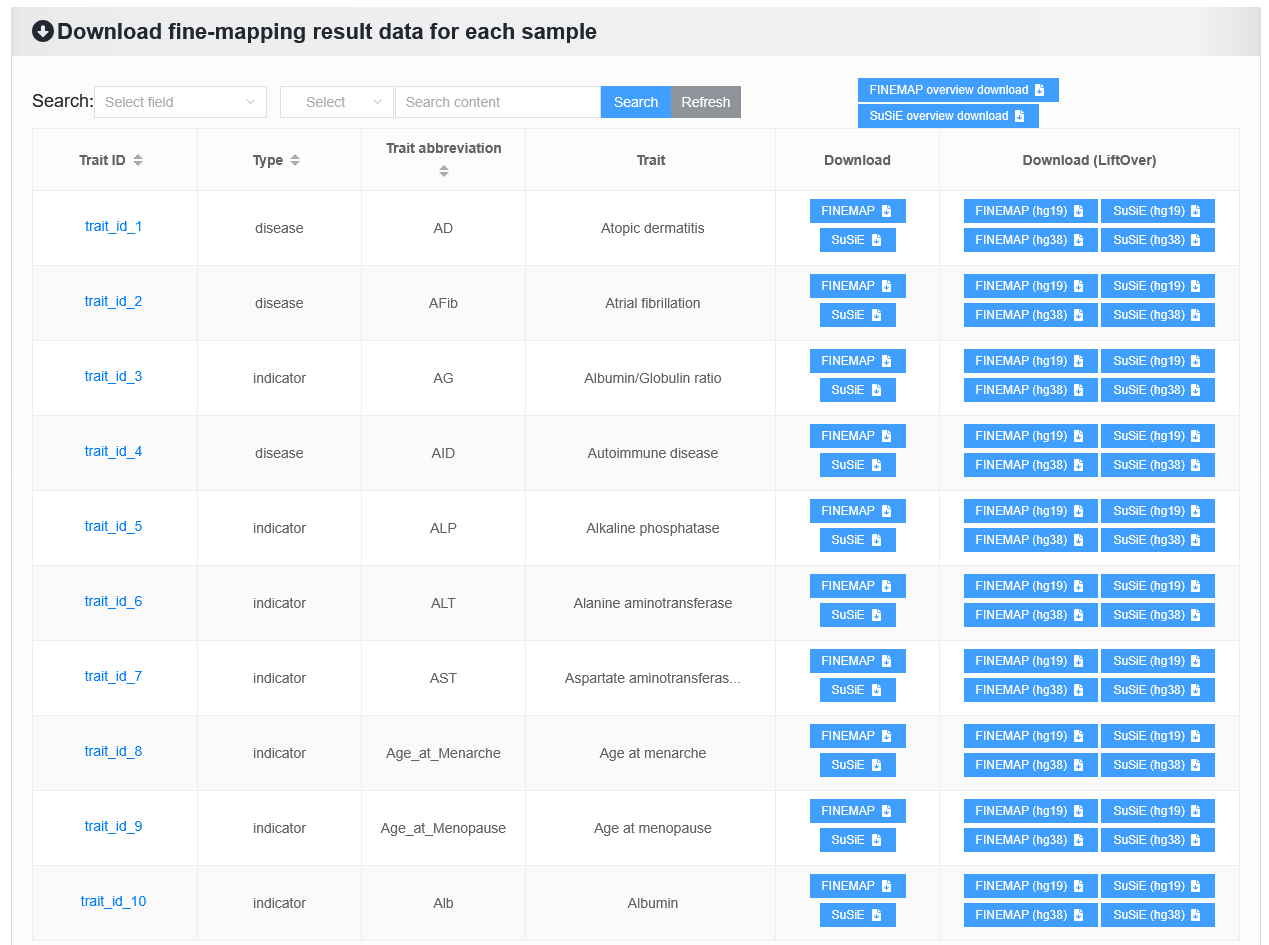
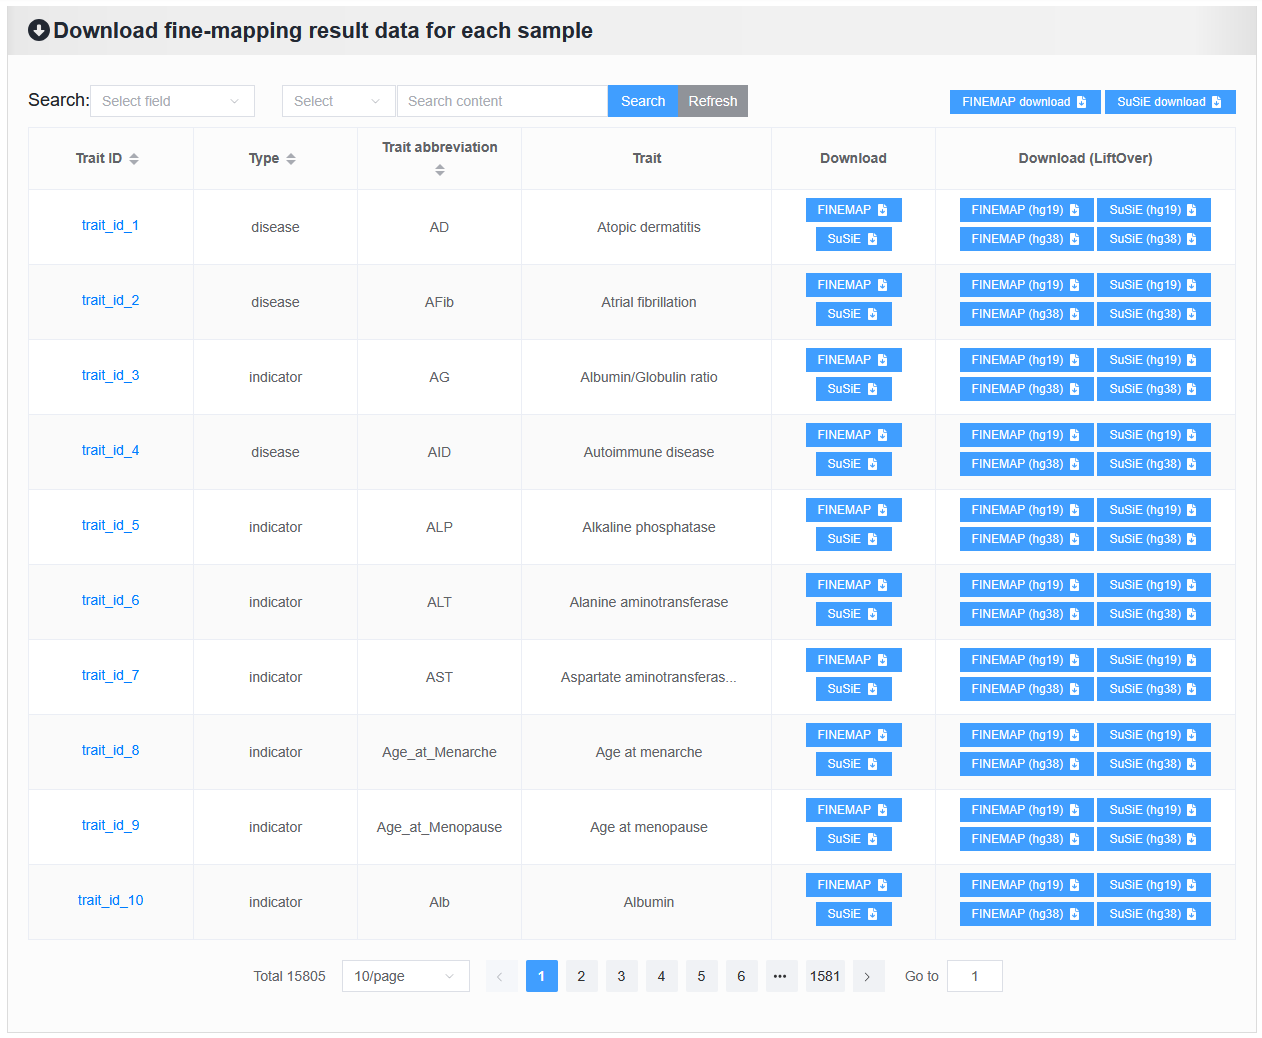
feat: Improve download information

diff --git a/docs/source/usage/download.rst b/docs/source/usage/download.rst
@@ -7,7 +7,7 @@ All downloadable data provides users with a centralized access portal aimed at f
 We have integrated the following comprehensive datasets:
 (i) scATAC-seq data;
 (ii) Fine-mapping results;
-(iii) The trait- or disease-relevant score (TRS) of each single-cell generated by g-chromVAR and SCAVENGE methods;
+(iii) The trait--relevant score (TRS) of each single-cell generated by g-chromVAR and SCAVENGE methods;
 (iv) Results of gene and TF related analysis;
 (v) Gene regulation annotation data.
 
@@ -16,12 +16,14 @@ We have integrated the following comprehensive datasets:
 
 .. image:: ../img/download/overview.png
 
+Below are the detailed download instructions.
+
 2.7.1.1 Overview of scATAC-seq data: ``txt`` file
 """""""""""""""""""""""""""""""""""""""""""""""""""""""""""""""""""""""""""""""""
 
-==== =========================== ==================================================================================================
+==== =========================== ==============================================================================================================================================================
 #    Column name                 Description
-==== =========================== ==================================================================================================
+==== =========================== ==============================================================================================================================================================
 1    f_sample_id                 The unique identifier of the single-cell sample, used for database operations.
 2    f_gse_id                    GSE ID
 3    f_genome                    The reference genome of the single-cell sample.
@@ -41,7 +43,10 @@ We have integrated the following comprehensive datasets:
 17   f_cell_count                The number of cells in the single-cell sample.
 18   f_cell_type_count           The number of cell types in the single-cell sample.
 19   f_index                     The unique index identifier of the single-cell sample has no meaning and is only used for sorting.
-==== =========================== ==================================================================================================
+20   f_time                      An indicator variable for whether this single-cell sample contains cell annotation information for age/day/time. 1 indicates presence, 0 indicates absence.
+21   f_sex                       An indicator variable for whether this single-cell sample contains cell annotation information for sex. 1 indicates presence, 0 indicates absence.
+22   f_drug                      An indicator variable for whether this single-cell sample contains cell annotation information for drug resistance. 1 indicates presence, 0 indicates absence.
+==== =========================== ==============================================================================================================================================================
 
 .. note::
 
@@ -105,7 +110,7 @@ Read the information of ``sample_id_1``.
 2.7.1.3 The result data of method g-ChromVAR: ``H5AD`` file
 """""""""""""""""""""""""""""""""""""""""""""""""""""""""""""""""""""""""""""""""
 
-Read the information of ``sample_id_1``.
+Read the information of ``sample_id_1 + FINEMAP``.
 
  | ``obs``: Cell
  | ``var``: Trait or disease
@@ -171,7 +176,7 @@ Read the information of ``sample_id_1``.
 2.7.1.4 The result data of method SCAVENGE: ``H5AD`` file
 """""""""""""""""""""""""""""""""""""""""""""""""""""""""""""""""""""""""""""""""
 
-Read the information of ``sample_id_1``.
+Read the information of ``sample_id_1 + FINEMAP``.
 
  | ``obs``: Cell
  | ``var``: Trait or disease
@@ -208,6 +213,8 @@ Read the information of ``sample_id_1``.
 ^^^^^^^^^^^^^^^^^^^^^^^^^^^^^^^^^^^^^^^^^^^^^^^^^^^^^^^^^^^^^^^^^^^^^^^^^^^^^^^^^
 
 .. image:: ../img/download/trait.png
+
+Below are the detailed download instructions.
 
 2.7.2.1 Overview of fine-mapping result data: ``xlsx`` file
 """""""""""""""""""""""""""""""""""""""""""""""""""""""""""""""""""""""""""""""""
@@ -273,7 +280,7 @@ This file was formed through uniform processing after the original download.
 12   p_value              p-value GWAS
 13   chisq                test statistic for marginal association
 14   z_score              original z-score
-15   pp                   posterior probability of association from fine-mapping (FINEMAP)
+15   pp                   posterior probability of association from fine-mapping (FINEMAP or SuSiE)
 16   beta_posterior       posterior expectation of true effect size
 17   sd_posterior         posterior standard deviation of true effect size
 18   trait_abbr           abbreviation for the trait
@@ -289,21 +296,25 @@ This file was formed through uniform processing after the original download.
 
 scVMAP provides variant coordinates under different reference genomes.
 
-==== ==================== ====================================================================================================
+==== ==================== ====================================================================================================================================
 #    Column name          Description
-==== ==================== ====================================================================================================
+==== ==================== ====================================================================================================================================
 1    None                 chromosome in hg19/hg38 coordinates
 2    None                 (start) position of variant in hg19/hg38 coordinates
 3    None                 (end) position of variant in hg19/hg38 coordinates
 4    None                 rsID identifier
-5    None                 posterior probability of association from fine-mapping (FINEMAP)
+5    None                 posterior probability of association from fine-mapping (FINEMAP or SuSiE)
 6    None                 abbreviation for the trait
 7    None                 Unique index identifiers based on trait or disease variants are meaningless and can be used to identify the uniqueness of variants.
-==== ==================== ====================================================================================================
+==== ==================== ====================================================================================================================================
 
 .. note::
 
     This format of data is suitable for performing overlay operations with enhancer data, etc.
+
+.. note::
+
+    The download name is the same regardless of the method or reference genome selected, so please be aware of this.
 
 2.7.3 Download other data
 ^^^^^^^^^^^^^^^^^^^^^^^^^^^^^^^^^^^^^^^^^^^^^^^^^^^^^^^^^^^^^^^^^^^^^^^^^^^^^^^^^
@@ -355,7 +366,7 @@ Here is the complete download for Part ``2.7.2 Download fine-mapping result data
 2    None                 (start) position of variant in hg19/hg38 coordinates
 3    None                 (end) position of variant in hg19/hg38 coordinates
 4    None                 rsID identifier
-5    None                 posterior probability of association from fine-mapping (FINEMAP)
+5    None                 posterior probability of association from fine-mapping (FINEMAP or SuSiE)
 6    None                 abbreviation for the trait
 7    None                 Unique index identifiers based on trait or disease variants are meaningless and can be used to identify the uniqueness of variants.
 ==== ==================== ====================================================================================================
@@ -678,15 +689,15 @@ scVMAP provides gene regulation annotation data for five types of epigenome data
 2.7.3.7.1 Common SNP: ``txt`` file (After decompression)
 *********************************************************************************
 
-==== ================== ====================================================================================================
+==== ================== ================================================================================================================
 #    Column name        Description
-==== ================== ====================================================================================================
+==== ================== ================================================================================================================
 1    chr                chromosome
 2    position           position
 3    rsId               rsID identifier
 4    ref                reference allele in the reference genome coordinate of the source cohort
 5    alt                alternative allele in the reference genome coordinate of the source cohort. (This allele is the effect allele.)
-==== ================== ====================================================================================================
+==== ================== ================================================================================================================
 
 
 .. code-block:: shell
@@ -708,9 +719,9 @@ scVMAP provides gene regulation annotation data for five types of epigenome data
 2.7.3.7.2 eQTL: ``txt`` file (After decompression)
 *********************************************************************************
 
-==== ================== ====================================================================================================
+==== ================== =================================================================================================================
 #    Column name        Description
-==== ================== ====================================================================================================
+==== ================== =================================================================================================================
 1    chr                chromosome
 2    position           position
 3    ref                reference allele in the reference genome coordinate of the source cohort
@@ -720,7 +731,7 @@ scVMAP provides gene regulation annotation data for five types of epigenome data
 7    af                 allele frequency of alternative allele (alt)
 8    pval_nominal       p-value
 9    tissue_type        tissue type
-==== ================== ====================================================================================================
+==== ================== =================================================================================================================
 
 
 .. code-block:: shell
@@ -741,9 +752,9 @@ scVMAP provides gene regulation annotation data for five types of epigenome data
 2.7.3.7.3 Risk SNP: ``txt`` file (After decompression)
 *********************************************************************************
 
-==== ================== ====================================================================================================
+==== ================== ===============================================================================================================
 #    Column name        Description
-==== ================== ====================================================================================================
+==== ================== ===============================================================================================================
 1    chr                chromosome
 2    pos                position
 3    rsId               rsID identifier
@@ -753,7 +764,7 @@ scVMAP provides gene regulation annotation data for five types of epigenome data
 7    Trait              trait
 8    Population         population
 9    PMID               PMID
-==== ================== ====================================================================================================
+==== ================== ===============================================================================================================
 
 .. code-block:: shell
     :linenos:
